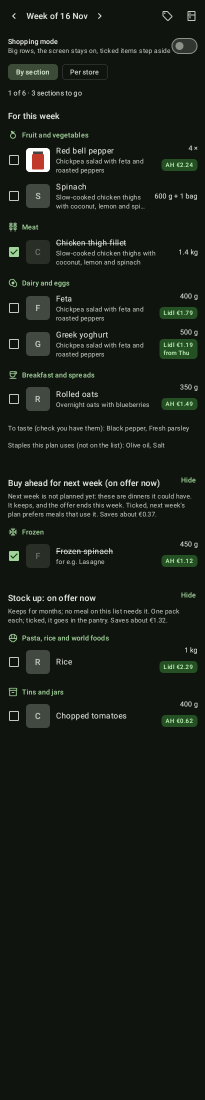
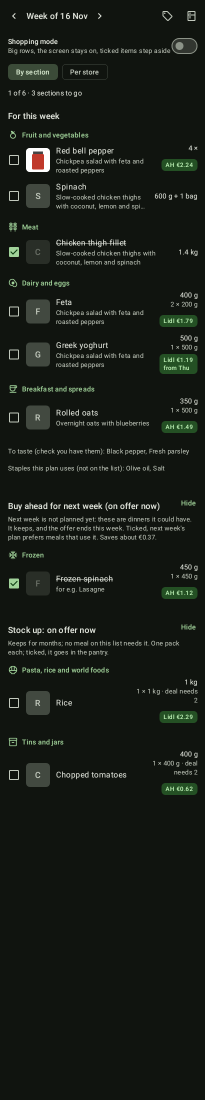
Shopping rows say what to pick up: packs to take and whether the deal fits (#105)
* Shopping rows say what to pick up: the packs to take and whether the deal fits

The badge shows one pack's price, but not how big a pack is or how many the recipes need. A pure helper next to PackSize reads the pack from the offer and rounds the packs up; a deal that wants more packs than needed (1+1 for one pack) is marked on the row and left out of the saving sums, since it would only be had by buying more.

* Shopping screenshots and docs for the pick-up line

Re-recorded the ten shopping pictures; data-sources.md describes the line.

* Re-record the shopping screenshots on top of the suggested-meal line

Main's pictures taken, recorded again with the pick-up line.

Changed region(s): [[0.0293, 0.2473, 0.9659, 0.7418], [0.4976, 0.6491, 0.6146, 0.7109]]

diff --git a/shared/src/commonMain/kotlin/dev/tobins/mealplanner/pricing/Pricing.kt b/shared/src/commonMain/kotlin/dev/tobins/mealplanner/pricing/Pricing.kt
@@ -5,6 +5,7 @@ import dev.tobins.mealplanner.api.Offer
 import dev.tobins.mealplanner.api.RecipeCost
 import dev.tobins.mealplanner.nutrition.NutritionCalculator
 import dev.tobins.mealplanner.recipes.IngredientLine
+import kotlin.math.ceil
 
 /** Pack sizes as stores write them: "500 g", "1,5 l", "2 x 250 g", "ca. 600 g", "3 stuks", "per stuk". */
 object PackSize {
@@ -12,6 +13,7 @@ object PackSize {
     private val multi = Regex("""(\d+)\s*x\s*$NUMBER\s*(kilogram|kg|kilo|gram|gr|g|liter|lt|l|ml|cl)\b""")
     private val single = Regex("""$NUMBER\s*(kilogram|kg|kilo|gram|gr|g|liter|lt|l|ml|cl)\b""")
     private val pieces = Regex("""(\d+)\s*(stuks|stuk|st)\b""")
+    private val volume = Regex("""\d\s*(liter|lt|l|ml|cl)\b""")
 
     /**
      * Grams in a pack, or null when the text gives no size that can be converted: volumes
@@ -27,6 +29,34 @@ object PackSize {
         return if (count != null && gramsPerPiece != null) count * gramsPerPiece else null
     }
 
+    /** The number of pieces in a pack written as "3 stuks" (or "per stuk": 1), null when the text counts none. */
+    fun pieces(text: String?): Int? {
+        val t = text?.lowercase() ?: return null
+        return pieces.find(t)?.groupValues?.get(1)?.toInt() ?: if (t.contains("per stuk")) 1 else null
+    }
+
+    /**
+     * What to pick up for an item that needs [gramsNeeded] (or [piecesNeeded]) when the store sells it as
+     * [offer]: the packs to take and how many packs the deal wants. The pack size is read from
+     * [Offer.packSize], else from the title. Packs in grams are compared with [gramsNeeded], packs in
+     * pieces with [piecesNeeded]; nothing is converted between them, and volumes are not taken for
+     * weights. Null when the size cannot be read or the item has no amount of the pack's kind.
+     */
+    fun toBuy(offer: Offer, gramsNeeded: Double?, piecesNeeded: Double?): PacksToBuy? {
+        val deal = Discounts.packsNeeded(offer.deal)
+        for (text in listOfNotNull(offer.packSize, offer.title)) {
+            if (volume.containsMatchIn(text.lowercase())) continue
+            val packGrams = grams(text)?.takeIf { it > 0 }
+            if (packGrams != null) return gramsNeeded?.takeIf { it > 0 }?.let { PacksToBuy(packsFor(it / packGrams), packGrams, null, deal) }
+            val packPieces = pieces(text)?.takeIf { it > 0 }
+            if (packPieces != null) return piecesNeeded?.takeIf { it > 0 }?.let { PacksToBuy(packsFor(it / packPieces), null, packPieces, deal) }
+        }
+        return null
+    }
+
+    /** Whole packs; a hair over a whole number (rounding in the sums) does not call for one more. */
+    private fun packsFor(ratio: Double) = ceil(ratio - 1e-9).toInt().coerceAtLeast(1)
+
     private fun number(text: String) = text.replace(',', '.').toDouble()
 
     private fun toGrams(amount: Double, unit: String, gramsPerMl: Double?): Double = when (unit) {
@@ -38,13 +68,35 @@ object PackSize {
     }
 }
 
+/**
+ * What to take home for one item: [packs] of the offer's pack, which is [packGrams] heavy or holds
+ * [packPieces] pieces (one of them is set), and the [dealPacks] the deal wants bought together.
+ */
+data class PacksToBuy(val packs: Int, val packGrams: Double?, val packPieces: Int?, val dealPacks: Int) {
+    /** True when the deal needs no more packs than the amount does, so its saving is really had. */
+    val dealFits: Boolean get() = dealPacks <= packs
+}
+
 /** How much of the regular price an offer leaves to pay. */
 object Discounts {
     private val percent = Regex("""(\d+(?:\.\d+)?)\s*%\s*korting""")
     private val free = Regex("""(\d+)\s*\+\s*(\d+)\s*gratis""")
     private val multiPrice = Regex("""(\d+)\s*voor\s*(\d+(?:\.\d+)?)""")
     private val fixedPrice = Regex("""^voor\s*(\d+(?:\.\d+)?)""")
+    private val halfPriceNth = Regex("""(\d+)\s*e\s*halve prijs""")
     private val amountOff = Regex("""^(\d+(?:\.\d+)?)\s*korting""")
+
+    /**
+     * How many packs the deal wants bought together: 2 for "2 voor 3,99", "1+1 gratis" and "2e halve
+     * prijs", 4 for "3+1 gratis"; 1 for a percentage, a price or a deal that says nothing of the kind.
+     */
+    fun packsNeeded(deal: String?): Int {
+        val text = deal?.lowercase()?.replace(',', '.')?.trim() ?: return 1
+        val count = free.find(text)?.let { it.groupValues[1].toInt() + it.groupValues[2].toInt() }
+            ?: multiPrice.find(text)?.groupValues?.get(1)?.toInt()
+            ?: halfPriceNth.find(text)?.groupValues?.get(1)?.toInt()
+        return (count ?: 1).coerceAtLeast(1)
+    }
 
     /**
      * The share of the regular price paid with [offer]: 0.75 for "25% korting", 0.5 for

diff --git a/composeApp/src/commonTest/kotlin/dev/tobins/mealplanner/app/ShoppingStoresTest.kt b/composeApp/src/commonTest/kotlin/dev/tobins/mealplanner/app/ShoppingStoresTest.kt
@@ -233,4 +233,51 @@ class ShoppingStoresTest {
         // The Lidl deal is still there to read, with its day.
         assertEquals("AH: €2.00 (Product)\nLidl: €1.00 from Thu (Product)", milk.dealText(all, monday, Strings.English))
     }
+
+    private fun packItem(grams: Double?, pieces: Double?, offer: Offer, otherAmounts: List<String> = emptyList()) =
+        ShoppingItem("chicken", "Chicken", grams, pieces, "Meat", emptyList(), false, false, listOf(offer), regularPrice = 4.0, otherAmounts = otherAmounts)
+
+    private fun packOffer(packSize: String?, deal: String?, share: Double = 0.5) =
+        Offer(Store.AH, "Chicken", deal, null, packSize = packSize, validFrom = "2026-01-01", validUntil = "2026-01-07", paidShare = share)
+
+    @Test
+    fun theRowSaysWhatToPickUpInBothLanguages() {
+        val two = packItem(1400.0, null, packOffer("700 g", "25% korting", 0.75))
+        assertEquals("2 × 700 g", two.packsToBuy(two.offers.single())?.text(Strings.English))
+        val kilo = packItem(1000.0, null, packOffer("1,5 kg", "25% korting", 0.75))
+        assertEquals("1 × 1,5 kg", kilo.packsToBuy(kilo.offers.single())?.text(Strings.Dutch))
+        val tight = packItem(450.0, null, packOffer("500 g", "1+1 gratis"))
+        assertEquals("1 × 500 g · deal needs 2", tight.packsToBuy(tight.offers.single())?.text(Strings.English))
+        assertEquals("1 × 500 g · actie vraagt 2", tight.packsToBuy(tight.offers.single())?.text(Strings.Dutch))
+        val pieces = packItem(null, 4.0, packOffer("3 stuks", null, 0.75))
+        assertEquals("2 × 3 pieces", pieces.packsToBuy(pieces.offers.single())?.text(Strings.English))
+        assertEquals("2 × 3 stuks", pieces.packsToBuy(pieces.offers.single())?.text(Strings.Dutch))
+    }
+
+    @Test
+    fun theRowGuessesNothingWithoutAWeighedAmountOrAReadablePack() {
+        assertNull(packItem(null, null, packOffer("500 g", null)).let { it.packsToBuy(it.offers.single()) })
+        val unweighed = packItem(null, 2.0, packOffer("500 g", null), otherAmounts = listOf("1 bag"))
+        assertNull(unweighed.packsToBuy(unweighed.offers.single()))
+        assertNull(packItem(400.0, null, packOffer(null, null)).let { it.packsToBuy(it.offers.single()) })
+    }
+
+    @Test
+    fun aDealThatDoesNotFitSavesNothingInTheSums() {
+        val fits = packItem(1000.0, null, packOffer("500 g", "1+1 gratis"))
+        val tooMuch = packItem(450.0, null, packOffer("500 g", "1+1 gratis"))
+        assertEquals(2.0, savingOf(listOf(fits), all, today))
+        assertNull(savingOf(listOf(tooMuch), all, today))
+        assertEquals(2.0, savingOf(listOf(fits, tooMuch), all, today))
+        // Without a readable pack nothing can be said against the saving.
+        assertEquals(2.0, savingOf(listOf(packItem(450.0, null, packOffer(null, "1+1 gratis"))), all, today))
+    }
+
+    @Test
+    fun theSnackbarAddsThePackSizeUnlessTheTitleHasIt() {
+        val plain = packItem(450.0, null, packOffer("500 g", "1+1 gratis"))
+        assertTrue(plain.dealText(all, today, Strings.English).endsWith("(Chicken, 500 g)"))
+        val named = packItem(450.0, null, packOffer("500 g", "1+1 gratis").copy(title = "Kip 500 g"))
+        assertTrue(named.dealText(all, today, Strings.English).endsWith("(Kip 500 g)"))
+    }
 }

diff --git a/composeApp/src/commonMain/kotlin/dev/tobins/mealplanner/app/ShoppingScreen.kt b/composeApp/src/commonMain/kotlin/dev/tobins/mealplanner/app/ShoppingScreen.kt
@@ -57,9 +57,28 @@ import dev.tobins.mealplanner.api.ShoppingAdviceGroup
 import dev.tobins.mealplanner.api.ShoppingItem
 import dev.tobins.mealplanner.api.ShoppingList
 import dev.tobins.mealplanner.api.Store
+import dev.tobins.mealplanner.pricing.PackSize
+import dev.tobins.mealplanner.pricing.PacksToBuy
 import kotlinx.coroutines.launch
 import kotlin.math.ceil
 import kotlin.math.roundToInt
+
+/** `450 g`, `1.4 kg`: a weight the way the list writes it. */
+fun weightText(grams: Double, locale: FormatLocale): String =
+    if (grams >= 1000) "${formatAmount(grams / 1000, locale)} kg" else "${grams.roundToInt()} g"
+
+/**
+ * What to pick up for this item when bought as [offer]: [PackSize.toBuy] for the weight the recipes
+ * need, or their pieces. What could not be weighed is not guessed at, so an item with other amounts
+ * (or without a weight) gets nothing.
+ */
+fun ShoppingItem.packsToBuy(offer: Offer): PacksToBuy? = PackSize.toBuy(offer, grams, if (otherAmounts.isEmpty()) pieces else null)
+
+/** `2 × 700 g`, `1 × 500 g · deal needs 2`, `2 × 3 pieces`: the packs to take and, when the deal wants more than the amount needs, how many it wants. */
+fun PacksToBuy.text(strings: Strings): String {
+    val size = packGrams?.let { weightText(it, strings.locale) } ?: strings.plural(Plural.PACK_PIECES, packPieces ?: 1)
+    return if (dealFits) strings(Msg.PACKS_TO_TAKE, packs, size) else strings(Msg.PACKS_DEAL_NEEDS, packs, size, dealPacks)
+}
 
 /**
  * `3 × · 330 g`, `450 g`, `2 ×`, `200 g + 1 bag`, `250 ml`, or empty when the recipes give no
@@ -67,7 +86,7 @@ import kotlin.math.roundToInt
  * piece count is left out then, as it would count those amounts a second time.
  */
 fun ShoppingItem.quantityText(locale: FormatLocale): String {
-    val weight = (grams ?: knownGrams)?.let { if (it >= 1000) "${formatAmount(it / 1000, locale)} kg" else "${it.roundToInt()} g" }
+    val weight = (grams ?: knownGrams)?.let { weightText(it, locale) }
     if (otherAmounts.isNotEmpty()) return (listOfNotNull(weight) + otherAmounts).joinToString(" + ")
     // Pieces are rounded up: nobody buys 1.5 onions.
     return listOfNotNull(pieces?.let { "${ceil(it - 1e-9).toInt()} ×" }, weight).joinToString(" · ")
@@ -604,6 +623,14 @@ private fun ShoppingRow(item: ShoppingItem, offer: Offer?, shops: Set<Store>, to
             // Long amounts such as "200 g + 1 bag" wrap rather than squeeze the name.
             Text(item.quantityText(t.locale), style = MaterialTheme.typography.bodyMedium.numeric(), textAlign = TextAlign.End)
             if (offer != null) {
+                item.packsToBuy(offer)?.let {
+                    Text(
+                        it.text(t),
+                        style = MaterialTheme.typography.bodySmall.numeric(),
+                        color = MaterialTheme.colorScheme.onSurfaceVariant,
+                        textAlign = TextAlign.End,
+                    )
+                }
                 // A tap shows the full deal; the rest of the row keeps ticking. The badge looks small
                 // but its touch area is 48 dp, as Material asks.
                 Box(

diff --git a/composeApp/src/commonMain/kotlin/dev/tobins/mealplanner/app/ShoppingStores.kt b/composeApp/src/commonMain/kotlin/dev/tobins/mealplanner/app/ShoppingStores.kt
@@ -41,14 +41,16 @@ fun ShoppingItem.savingOffer(shops: Set<Store>, today: String): Offer? = bestOff
 fun ShoppingItem.dealText(shops: Set<Store>, today: String, strings: Strings): String =
     offers.filter { it.store in shops && it.validUntil >= today }.distinctBy { it.store to it.deal }.joinToString("\n") {
         val later = if (it.startsAfter(today)) " ${it.startLabel(today, strings)}" else ""
-        "${it.shortText(strings)}$later (${it.title})"
+        // The pack size is added when the title does not already say it.
+        val pack = it.packSize?.takeIf { size -> size.isNotBlank() && !it.title.contains(size, ignoreCase = true) }
+        "${it.shortText(strings)}$later (${listOfNotNull(it.title, pack).joinToString(", ")})"
     }
 
 /**
  * What buying this item with [offer] saves in euros: its regular price times the share the offer
- * takes off. The regular price is AH's, so at another store this is an estimate. Like the plan's
- * costs it assumes the deal applies to the amount needed (a "1+1 gratis" halves it even when one
- * pack would do). Null when the server could not work out either part.
+ * takes off. The regular price is AH's, so at another store this is an estimate. It assumes the
+ * deal applies to the amount needed, which [savingOf] checks against the packs. Null when the
+ * server could not work out either part.
  */
 fun ShoppingItem.saving(offer: Offer): Double? {
     val regular = regularPrice ?: return null
@@ -59,10 +61,12 @@ fun ShoppingItem.saving(offer: Offer): Double? {
 /**
  * What [items] save together when each is bought with its preferred offer in [shops] on [today];
  * null when no saving is known, or it is less than a cent. An offer that only starts later saves
- * nothing today, so it is left out of the sum although its badge stays on the row.
+ * nothing today, so it is left out of the sum although its badge stays on the row. So is a deal
+ * that wants more packs than the amount needs ("1+1 gratis" for one pack): the saving would only
+ * be had by buying more than needed.
  */
 fun savingOf(items: List<ShoppingItem>, shops: Set<Store>, today: String): Double? =
-    items.mapNotNull { item -> item.bestOffer(shops, today)?.takeIf { it.validOn(today) }?.let(item::saving) }.sum().takeIf { it >= 0.005 }
+    items.mapNotNull { item -> item.bestOffer(shops, today)?.takeIf { it.validOn(today) && item.packsToBuy(it)?.dealFits != false }?.let(item::saving) }.sum().takeIf { it >= 0.005 }
 
 /** The items whose saving offer ([savingOffer]) is at [store], and what those offers save ([savingOf]). */
 data class StoreGroup(val store: Store, val items: List<ShoppingItem>, val saving: Double? = null) {

diff --git a/shared/src/commonTest/kotlin/dev/tobins/mealplanner/pricing/PricingTest.kt b/shared/src/commonTest/kotlin/dev/tobins/mealplanner/pricing/PricingTest.kt
@@ -14,6 +14,52 @@ class PricingTest {
     private fun near(expected: Double, actual: Double?, tolerance: Double = 0.001) =
         assertTrue(actual != null && abs(expected - actual) <= tolerance, "expected $expected, got $actual")
 
+    private fun packOffer(packSize: String?, deal: String? = null, title: String = "Product") =
+        Offer(Store.AH, title, deal, 4.5, packSize = packSize, validFrom = "2026-01-01", validUntil = "2026-01-07")
+
+    @Test
+    fun packsToTakeAreRoundedUp() {
+        val plan = PackSize.toBuy(packOffer("700 g"), 1400.0, null)
+        assertEquals(PacksToBuy(2, 700.0, null, 1), plan)
+        assertEquals(3, PackSize.toBuy(packOffer("700 g"), 1401.0, null)?.packs)
+        assertEquals(1, PackSize.toBuy(packOffer("700 g"), 50.0, null)?.packs)
+    }
+
+    @Test
+    fun aDealThatWantsMorePacksThanNeededDoesNotFit() {
+        val plan = PackSize.toBuy(packOffer("500 g", "1+1 gratis"), 450.0, null)
+        assertEquals(PacksToBuy(1, 500.0, null, 2), plan)
+        assertEquals(false, plan?.dealFits)
+        assertEquals(true, PackSize.toBuy(packOffer("500 g", "1+1 gratis"), 900.0, null)?.dealFits)
+    }
+
+    @Test
+    fun packsInPiecesAreComparedWithPieces() {
+        assertEquals(PacksToBuy(2, null, 3, 1), PackSize.toBuy(packOffer("3 stuks"), null, 4.0))
+        // Weights are not guessed from pieces, nor pieces from weights.
+        assertNull(PackSize.toBuy(packOffer("3 stuks"), 400.0, null))
+        assertNull(PackSize.toBuy(packOffer("500 g"), null, 4.0))
+    }
+
+    @Test
+    fun packSizeFallsBackToTheTitleAndUnreadableOnesGiveNothing() {
+        assertEquals(700.0, PackSize.toBuy(packOffer(null, title = "Kipfilet 700 g"), 700.0, null)?.packGrams)
+        assertNull(PackSize.toBuy(packOffer(null, title = "Kipfilet"), 700.0, null))
+        assertNull(PackSize.toBuy(packOffer("1 l"), 700.0, null))
+        assertNull(PackSize.toBuy(packOffer("500 g"), null, null))
+    }
+
+    @Test
+    fun packsADealNeeds() {
+        assertEquals(2, Discounts.packsNeeded("1+1 gratis"))
+        assertEquals(4, Discounts.packsNeeded("3+1 GRATIS"))
+        assertEquals(2, Discounts.packsNeeded("2 voor 3,99"))
+        assertEquals(2, Discounts.packsNeeded("2e halve prijs"))
+        assertEquals(1, Discounts.packsNeeded("25% korting"))
+        assertEquals(1, Discounts.packsNeeded("voor 3,49"))
+        assertEquals(1, Discounts.packsNeeded(null))
+    }
+
     @Test
     fun packSizesInWeightVolumeAndPieces() {
         assertEquals(500.0, PackSize.grams("500 g"))

diff --git a/composeApp/src/commonMain/kotlin/dev/tobins/mealplanner/app/Messages.kt b/composeApp/src/commonMain/kotlin/dev/tobins/mealplanner/app/Messages.kt
@@ -118,6 +118,8 @@ enum class Msg(private val english: String, private val dutch: String) {
     ALL_TICKED_OFF("All {0} ticked off", "Alle {0} afgevinkt"),
     BADGE_OFFER("offer", "aanbieding"),
     OFFER_FROM("from {0}", "vanaf {0}"),
+    PACKS_TO_TAKE("{0} × {1}", "{0} × {1}"),
+    PACKS_DEAL_NEEDS("{0} × {1} · deal needs {2}", "{0} × {1} · actie vraagt {2}"),
 
     // --- App shell and login
     YOUR_ACCOUNT("your account", "je account"),
@@ -571,6 +573,7 @@ enum class Plural(
 
     /** For an amount that may be fractional: the count only picks the form, `{1}` is the amount as written. */
     SERVINGS_AMOUNT("{1} serving", "{1} servings", "{1} portie", "{1} porties"),
+    PACK_PIECES("{0} piece", "{0} pieces", "{0} stuk", "{0} stuks"),
     INGREDIENTS_TO_LINK("{0} ingredient to link", "{0} ingredients to link", "{0} ingrediënt om te koppelen", "{0} ingrediënten om te koppelen"),
     STORE_ITEMS_ON_OFFER(
         "{1} · {0} item on offer", "{1} · {0} items on offer",

diff --git a/composeApp/src/commonTest/kotlin/dev/tobins/mealplanner/app/StringsTest.kt b/composeApp/src/commonTest/kotlin/dev/tobins/mealplanner/app/StringsTest.kt
@@ -16,7 +16,7 @@ class StringsTest {
     private val sameInBothLanguages = setOf(
         Msg.DETAILS, Msg.SLOT_LUNCH, Msg.CARD_SERVER, Msg.CARD_ACCOUNT, Msg.CARD_APP, Msg.LATER,
         Msg.LANGUAGE_ENGLISH, Msg.LANGUAGE_DUTCH, Msg.OFFER_WAS, Msg.PRICE_PER_KG, Msg.WEIGHING_ROW,
-        Msg.SERVER_ADDRESS_HINT,
+        Msg.SERVER_ADDRESS_HINT, Msg.PACKS_TO_TAKE,
     )
 
     @Test

diff --git a/docs/data-sources.md b/docs/data-sources.md
@@ -128,6 +128,11 @@ The server sends every offer that overlaps the plan week, so the app judges each
 (the stores' weeks differ): an offer that has ended is ignored everywhere on the list; one that
 starts later keeps its badge with the day (`Lidl €1.79 / from Thu`) and stays under its store,
 but is left out of the saving, and an offer valid today always wins over one that starts later.
+A row with an offer also says what to pick up (`PackSize.toBuy`, in the app only): the packs to take
+(`2 × 700 g`), from the offer's pack size and the weight (or, for packs in pieces, the pieces) the
+recipes need. When the deal wants more packs than that (`1+1 gratis` for one pack: `1 × 500 g · deal
+needs 2`) its saving is left out of the sums. Nothing is said when the pack cannot be read, or the item
+has no weighed amount.
 Regular prices are AH's, so for Jumbo and Lidl that saving is an estimate against AH's price, and the
 app says so.
 
